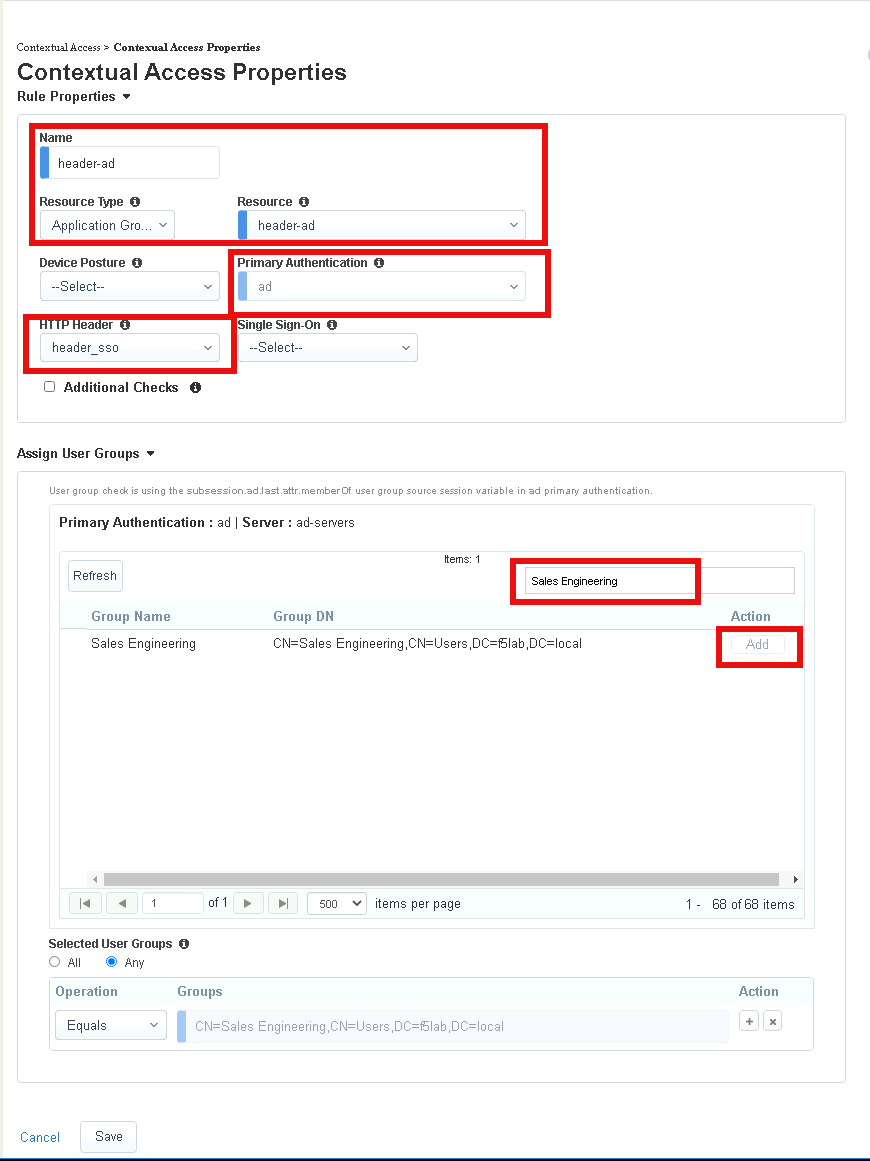
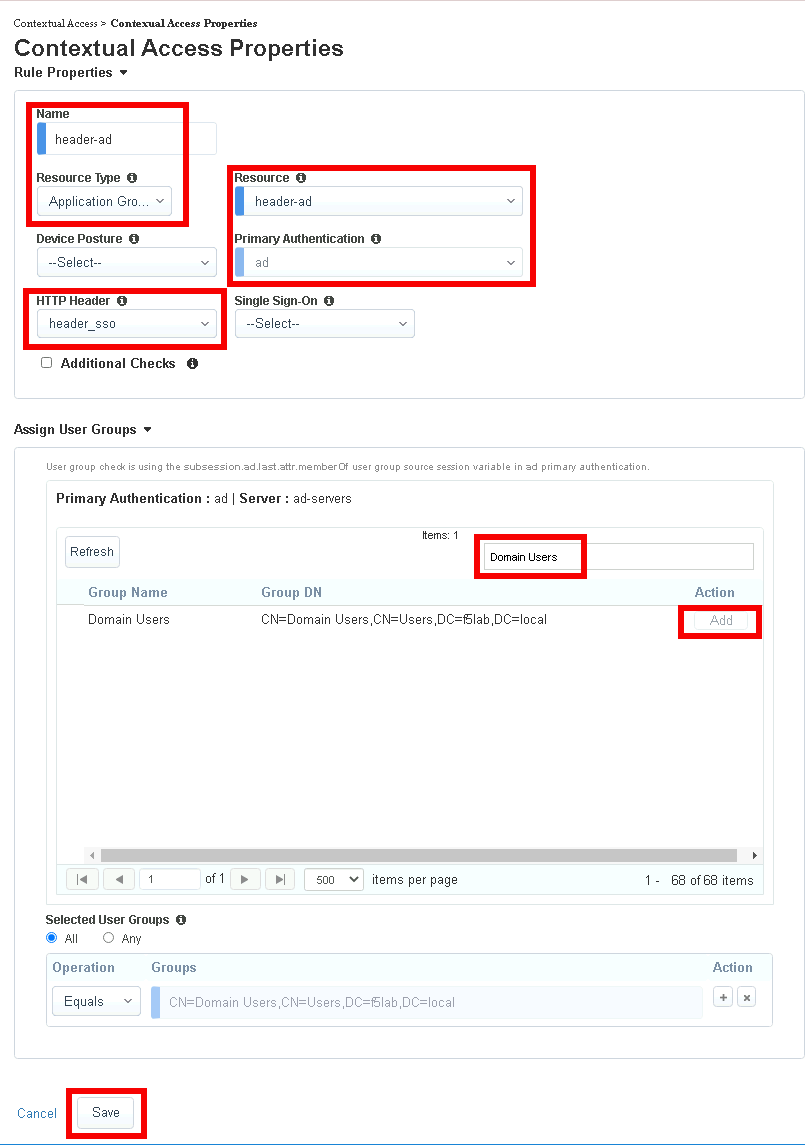
lab2 update v6

diff --git a/class2/module2/lab02.rst b/class2/module2/lab02.rst
@@ -193,16 +193,12 @@ Task - Configure Contextual Access for header_ad Group
 #. Select **header-ad** from the Resource dropdown
 #. Select **ad** from the Primary Authentication dropdown
 #. Select **header_sso** from the HTTP_Header dropdown
-#. Enter **Sales Engineering** in the Primary Authentication filter Group Name
-#. Click **Add** beside Sales Engineering
+#. Enter **Domain Users** in the Primary Authentication filter Group Name
+#. Click **Add** beside Domain Users
+#. Click **Save**
 
    |image22|
 
-#. Enter **Product Management** in the Primary Authentication filter Group Name
-#. Click **Add* beside Product Management
-#. Click **Save**
-
-   |image22-2|
 
 Task - Configure Contextual Access for header-ocsp Group
 ~~~~~~~~~~~~~~~~~~~~~~~~~~~~~~~~~~~~~~~~~~~~~~~~~~~~~~~~~~~~~~~
@@ -216,17 +212,11 @@ Task - Configure Contextual Access for header-ocsp Group
 #. Select **header-ocsp** from the Resource dropdown
 #. Select **ad** from the Primary Authentication dropdown
 #. Select **header_sso** from the HTTP_Header dropdown
-#. Enter **Sales Engineering** in the Primary Authentication filter Group Name
-#. Click **Add* beside Sales Engineering
-
-   |image24|
-
-#. Enter **Product Management** in the Primary Authentication filter Group Name
-#. Click **Add* beside Product Management
+#. Enter **Domain Users** in the Primary Authentication filter Group Name
+#. Click **Add** beside Domain Users
 #. Click **Save**
 
-   |image24-2|
-
+   |image24|
 
 #. Click **Save**
 
